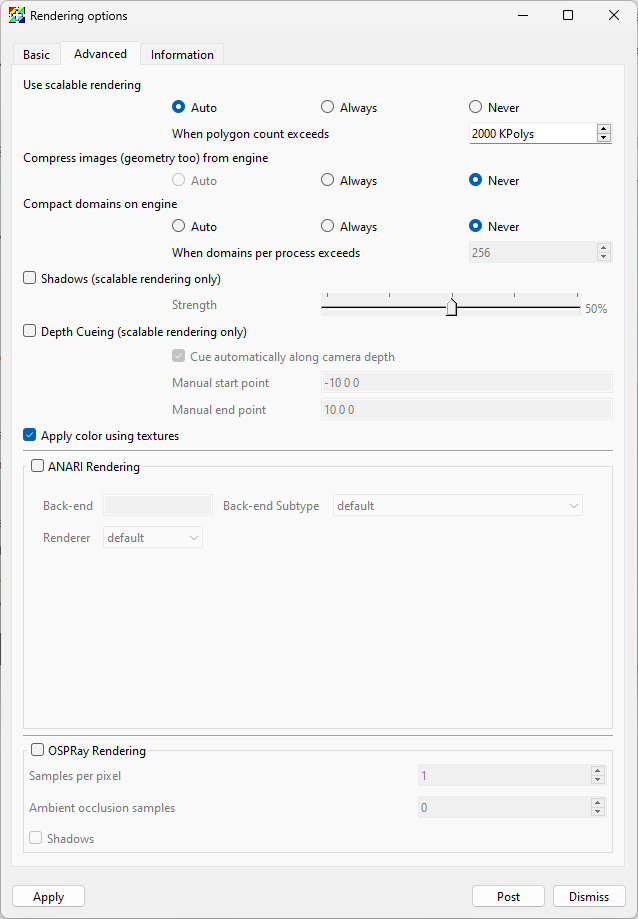
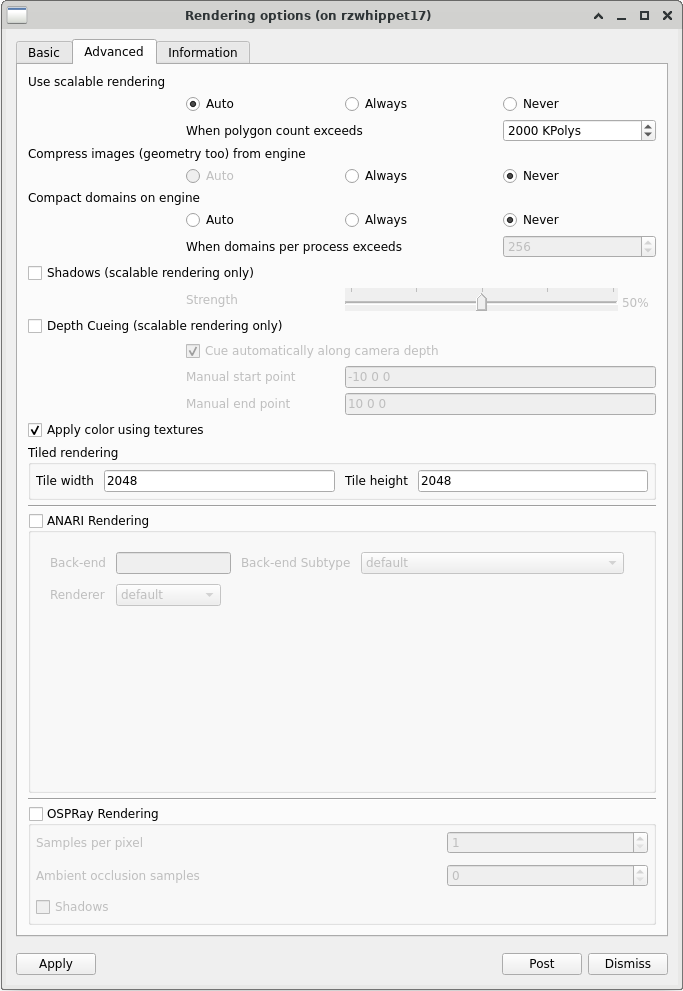
Add documentation on tiled rendering.

diff --git a/src/doc/using_visit/Preferences/Rendering_Options_Window.rst b/src/doc/using_visit/Preferences/Rendering_Options_Window.rst
@@ -116,6 +116,30 @@ To change the scalable rendering mode, click on either the **Auto**,
 **Always** or **Never** radio boxes under the **Use scalable rendering**
 label.
 
+Scalable rendering
+""""""""""""""""""
+
+.. _Preferences-TiledRendering:
+
+VisIt_ will render images in a tiled manner when the image size exceeds the tiled image size.
+Tiled rendering is always enabled with a default tile width and height of 2048.
+Tiled rendering is always enabled because the underlying rendering library used by VisIt_ stops working properly somewhere between an image width and height of 8192 and 16384.
+This avoids that issue.
+
+Tiled rendering is only used when saving images.
+It is not used when displaying images on the screen.
+
+There are a few limitations of tiled rendering.
+
+* Anti-aliasing doesn't work properly with tiling.
+  When using FXAA (Fast Approximate Anti-Aliasing), each tile will be independently anti-aliased resulting in artifacts along tile boundaries.
+  Typically, those artifacts are not visible.
+* Points may not extend across tile boundaries when using the "Point" point type.
+  All other point types should work fine.
+* Horizontal or vertical lines that align exactly with tile boundaries may not be visible.
+* Points that are exactly on tile boundaries may not be visible.
+* Any rendering that involves OSPRay doesn't work properly with tiled rendering.
+
 ANARI Rendering
 ~~~~~~~~~~~~~~~
 
